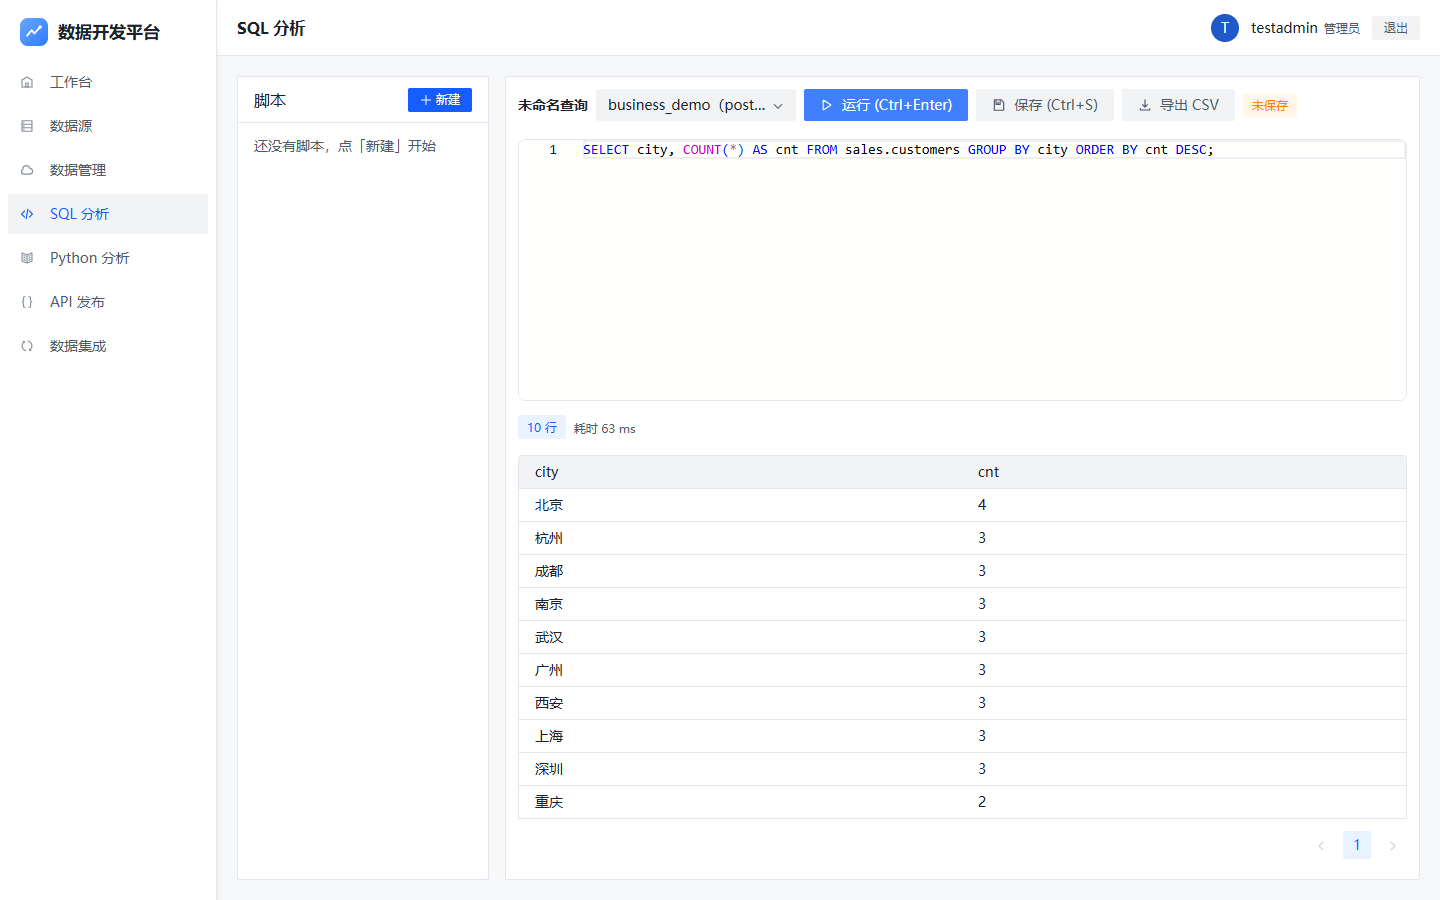
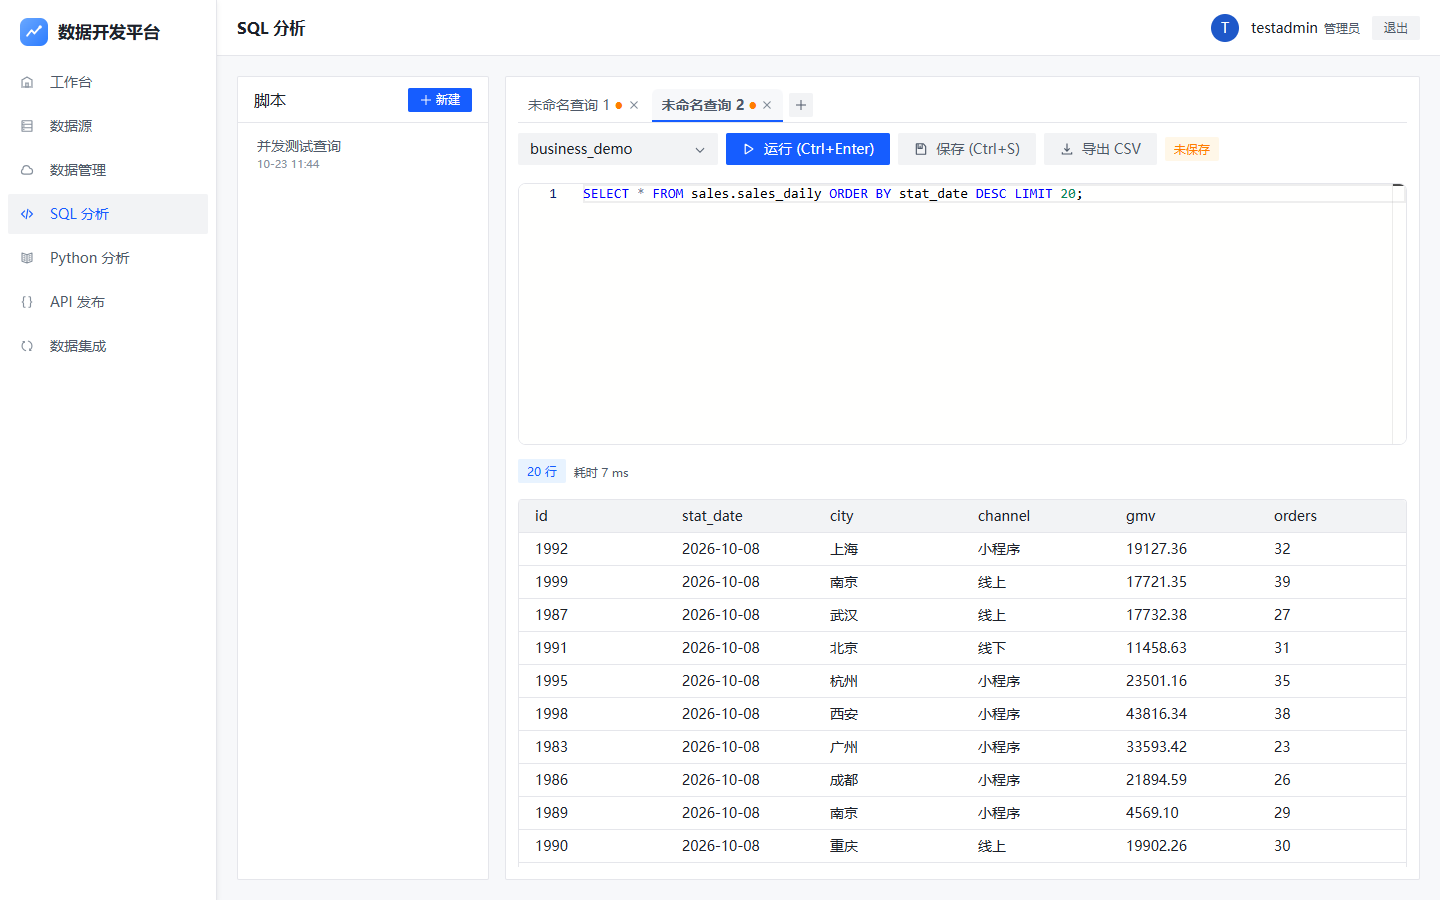
README 更新多页签截图（SQL/Python 分析），修正 PySpark 默认模板为自建 SparkSession

diff --git a/web/src/pages/pyscript/index.tsx b/web/src/pages/pyscript/index.tsx
@@ -14,7 +14,10 @@ import {
 } from '../../api/pyscript';
 import { DataSourceInfo, listDatasources } from '../../api/datasource';
 
-const SPARK_TEMPLATE = `# spark 变量已由平台注入，直接使用
+const SPARK_TEMPLATE = `from pyspark.sql import SparkSession
+
+spark = SparkSession.builder.appName("datalore").getOrCreate()
+
 result = spark.sql("SELECT 1 AS hello")
 result.show()
 

diff --git a/README.md b/README.md
@@ -8,8 +8,8 @@
 
 - **数据源管理** — 支持 PostgreSQL / MySQL / Hive 关系型数据源与 Spark / Flink 计算引擎登记，按类型动态适配连接表单，测连接 / 编辑 / 删除
 - **数据管理** — 数据源 → Schema → 表树形浏览；表数据分页预览、条件筛选、排序、新增行、删除行、导出 CSV；字段结构查看与 DDL 编辑（新增 / 改名 / 改类型 / 删除，按数据源方言生成）；CSV 导入（自定义物理表名 / 追加已有表）；所有表支持引用检查 + 强制删除
-- **SQL 分析** — Monaco 编辑器，脚本树管理、只读校验、30s 超时、10000 行截断、结果导出 CSV，支持 PG / MySQL / Hive
-- **Python 分析** — PySpark 脚本经 Livy 兼容 REST API 提交到 Spark 集群真实执行；PyFlink 脚本经 Flink 集群 REST API 执行；实时日志输出与运行历史
+- **SQL 分析** — Monaco 编辑器，数据库客户端式多页签（临时页签可保存、双击改名、未保存内容本地持久化），多页签并发运行与逐页签停止，30s 超时、10000 行截断、结果导出 CSV，支持 PG / MySQL / Hive
+- **Python 分析** — 多页签编辑器（与 SQL 分析一致），PySpark 经 Livy 兼容 REST API、PyFlink 经 Flink 集群 REST API 真实执行；页签间并发运行、独立日志、单页签停止，实时输出与运行历史
 - **API 发布** — 数据表模式（选表 + 暴露列 + 过滤列）与 SQL 模式（手写只读 SELECT，支持 `:param` 命名参数）；每个 API 独立 Key/Secret 凭证，AES-GCM 加密存储
 - **数据集成** — 4 步向导：基本信息 → 源与目标 → 映射配置（拖拽连线字段映射）→ 调度与确认；支持 OVERWRITE / APPEND / UPSERT 写入策略与 SELECT 表输入
 - **多租户** — 租户注册、登录鉴权、数据与脚本按租户隔离
